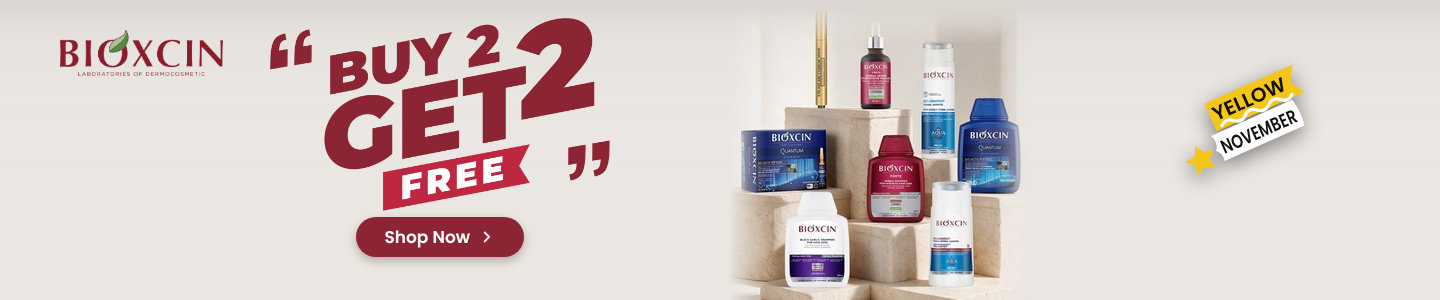
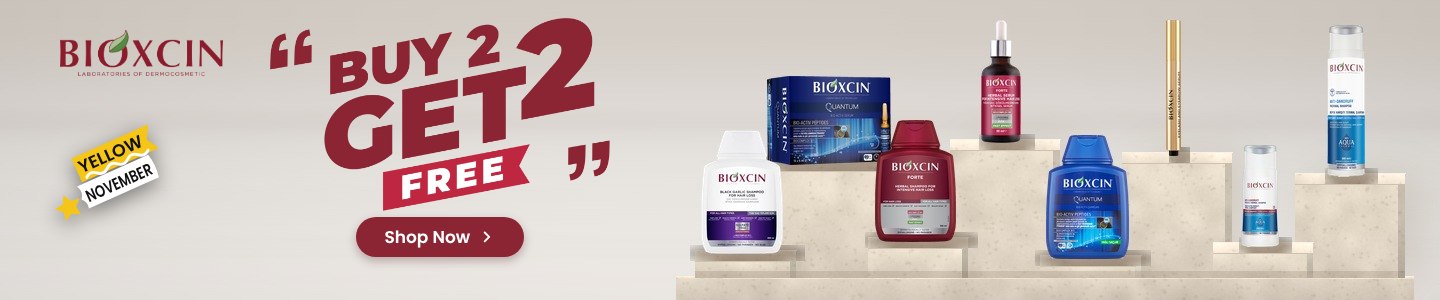
Offer 2 wide: custom travertine block stands per size, products arranged in two rows instead of the fixed photo podium
Claude-Session: https://claude.ai/code/session_01MejyVmSq2aYVYmituLqweB

diff --git a/banners/banners.css b/banners/banners.css
@@ -798,3 +798,10 @@ img.logo { object-fit: contain; }
 .podium.mobile-slim .st-cta { margin-top: 120px; margin-inline-start: 18px; }
 [dir="rtl"].podium.mobile-slim .st-cta { margin-inline-start: 0; margin-inline-end: 18px; }
 [dir="rtl"].podium.desktop-hero .bf-sticker { top: 120px; }
+/* offer 2 wide: products fill the right side, so logo + sticker live on the copy side */
+[dir="rtl"].podium.desktop-hero .pd-logo { right: auto; left: 60px; }
+.podium.desktop-hero .bf-sticker, [dir="rtl"].podium.desktop-hero .bf-sticker { width: 140px; left: 50px; top: 120px; }
+.podium.mobile-hero .bf-sticker { width: 92px; left: 300px; top: 2px; }
+.podium.mobile-slim .bf-sticker { width: 88px; left: 330px; top: 2px; }
+.podium.mobile-slim .pd-logo { right: auto; left: 700px; display: none; }
+.podium.mobile-hero .bf-sticker { left: 318px; }

diff --git a/banners/make-offer2-bg.py b/banners/make-offer2-bg.py
@@ -1,36 +1,118 @@
-"""Wide backgrounds for offer 2: the podium group from products/offer2-podium.jpg
-placed on a wall extended from the photo's own edge colours."""
+"""Offer-2 wide backgrounds: wall from the podium photo's tones, stone blocks built from
+the photo's travertine texture, and the 8 product cutouts arranged per banner size."""
 from pathlib import Path
-from PIL import Image
+from PIL import Image, ImageFilter, ImageEnhance, ImageOps
 import numpy as np
 here = Path(__file__).parent
 ph = Image.open(here / "products/offer2-podium.jpg").convert("RGB")
 A = np.asarray(ph).astype(np.float32)
-crop = (40, 382, 760, 1075)            # pen top .. podium base
-cw, ch = crop[2] - crop[0], crop[3] - crop[1]
 
-def build(name, W, H, cx, pad=6):
-    k = (H - pad) / ch
-    pw, phh = round(cw * k), round(ch * k)
-    prod = ph.crop(crop).resize((pw, phh), Image.LANCZOS)
-    px, py = round(cx - pw / 2), H - phh
+# travertine: warm base + soft cloudy variation + small elongated pores (like the photo's blocks)
+import cv2
+rng = np.random.default_rng(7)
+def travertine(w, h, shade=1.0, scale=1.0):
+    base = np.array([229, 217, 200], np.float32)
+    n1 = cv2.GaussianBlur(rng.normal(0, 1, (h, w)).astype(np.float32), (0, 0), 9 * scale + 1)
+    n1 = n1 / (n1.std() + 1e-6) * 4.0
+    n2 = cv2.GaussianBlur(rng.normal(0, 1, (h, w)).astype(np.float32), (0, 0), 0.8) * 3.0
+    pores = np.zeros((h, w), np.float32)
+    for _ in range(int(w * h / (80 / scale))):
+        x, y = rng.integers(0, w), rng.integers(0, h)
+        rx = max(1, int(rng.choice([1, 1, 2, 2, 3]) * scale + 0.5)); ry = max(1, int(rx * 0.55))
+        cv2.ellipse(pores, (int(x), int(y)), (rx, ry), 0, 0, 360, float(rng.uniform(7, 17)), -1)
+    pores = cv2.GaussianBlur(pores, (0, 0), 0.6)
+    img = base[None, None, :] + (n1 + n2)[..., None] - pores[..., None] * np.array([1.0, 1.08, 1.25])
+    img *= shade * np.linspace(1.02, 0.95, h)[:, None, None]
+    return Image.fromarray(img.clip(0, 255).astype(np.uint8))
+
+def stone(w, h, shade=1.0, scale=1.0):
+    return travertine(max(1, int(w)), max(1, int(h)), shade, scale)
+
+def wall(W, H):
     rows = []
     for y in range(H):
-        sy = int(min(max(crop[1] + (y - py) / k, 0), 780))   # wall only, never the podium
+        sy = int(120 + (y / max(1, H - 1)) * 640)
         rows.append((A[sy, :25].mean(0) + A[sy, -25:].mean(0)) / 2)
     bg = np.repeat(np.array(rows)[:, None, :], W, 1)
-    canvas = Image.fromarray(bg.clip(0, 255).astype(np.uint8))
-    m = Image.new("L", prod.size, 255); mp = m.load(); fe = max(14, pw // 8)
-    for x in range(pw):
-        for y in range(phh):
-            v = 255
-            if x < fe: v = min(v, 255 * x // fe)
-            if pw - 1 - x < fe: v = min(v, 255 * (pw - 1 - x) // fe)
-            if y < fe: v = min(v, 255 * y // fe)
-            mp[x, y] = v
-    canvas.paste(prod, (px, py), m)
-    canvas.save(here / f"products/offer2-bg-{name}.jpg", quality=93)
+    xx = np.linspace(-1, 1, W)[None, :, None]
+    bg = bg * (1 - 0.05 * xx ** 2)             # soft light in the middle
+    return Image.fromarray(bg.clip(0, 255).astype(np.uint8))
 
-build("1440x300", 1440, 300, cx=880)
-build("706x320", 706, 320, cx=530)
-build("800x200", 800, 200, cx=560)
+P = {k: Image.open(here / f"products/{v}.png").convert("RGBA") for k, v in {
+    "garlic": "bioxcin-black-garlic-shampoo", "box": "bioxcin-quantum-serum", "forte": "bioxcin-forte-shampoo",
+    "serum": "bioxcin-forte-serum", "thermal": "bioxcin-anti-dandruff-shampoo", "pen": "bioxcin-eyelash-serum",
+    "qshamp": "bioxcin-quantum-shampoo", "ds": "bioxcin-anti-dandruff-ds-shampoo"}.items()}
+REAL_H = {"garlic": 1.0, "box": 0.62, "forte": 0.98, "serum": 0.86, "thermal": 1.06, "pen": 0.95, "qshamp": 1.0, "ds": 0.82}
+# slot order left→right: front (F) shampoos on low blocks, back (B) small items on tall blocks
+SLOTS = [("garlic", "F"), ("box", "B"), ("forte", "F"), ("serum", "B"),
+         ("qshamp", "F"), ("pen", "B"), ("ds", "F"), ("thermal", "B")]
+BACK_H = [0.84, 1.0, 0.9, 0.74]
+FRONT_H = [0.14, 0.24, 0.1, 0.2]
+
+def build(name, W, H, x0, x1, unit, maxblock, slab, tex, front_h=0.16):
+    from PIL import ImageDraw
+    c = wall(W, H)
+    ground = H - slab
+    n = len(SLOTS)
+    step = (x1 - x0) / n
+    items = []
+    bi = 0; fi = 0
+    for i, (k, row) in enumerate(SLOTS):
+        im = P[k]
+        h = unit * REAL_H[k] * (0.9 if row == "B" else 0.78)
+        w = im.width * h / im.height
+        cx = x0 + step * (i + 0.5)
+        if row == "B":
+            bh = int(maxblock * BACK_H[bi]); bi += 1
+            bw = max(w * 1.3, step * 1.2)
+        else:
+            bh = int(maxblock * FRONT_H[fi]); fi += 1
+            bw = max(w * 1.15, step * 1.1)
+        items.append(dict(k=k, row=row, cx=cx, w=w, h=h, bh=bh, bw=bw))
+    top_h = max(5, int(unit * 0.07))
+    # soft shadows of the blocks on the wall (light from the upper left)
+    shadow = Image.new("L", (W, H), 0); sd = ImageDraw.Draw(shadow)
+    for it in items:
+        if it["row"] == "B":
+            sd.rectangle((it["cx"] - it["bw"] / 2 + unit * 0.12, ground - it["bh"] - top_h,
+                          it["cx"] + it["bw"] / 2 + unit * 0.12, ground), fill=55)
+    shadow = shadow.filter(ImageFilter.GaussianBlur(unit * 0.12))
+    c = Image.composite(Image.new("RGB", (W, H), (150, 128, 104)), c, shadow)
+    # base slab
+    bx0 = int(x0 - unit * 0.15)
+    c.paste(stone(int(x1 - x0 + unit * 0.3), slab, 0.96, tex), (bx0, ground))
+    c.paste(stone(int(x1 - x0 + unit * 0.3), 3, 1.1, tex), (bx0, ground - 2))
+
+    def draw_block(it):
+        x = int(it["cx"] - it["bw"] / 2); bw = int(it["bw"]); bh = it["bh"]
+        if bh <= 0: return
+        side = max(3, int(bw * 0.07))
+        c.paste(stone(bw, bh, 1.0, tex), (x, ground - bh))
+        c.paste(stone(side, bh + top_h, 0.86, tex), (x + bw, ground - bh - top_h))     # shaded right side
+        c.paste(stone(bw + side, top_h, 1.1, tex), (x, ground - bh - top_h))           # lit top
+        d = ImageDraw.Draw(c)
+        d.line((x, ground - bh - top_h, x + bw + side, ground - bh - top_h), fill=(247, 241, 232), width=1)
+        d.line((x, ground - bh, x + bw, ground - bh), fill=(208, 194, 175), width=1)
+        sh = Image.new("L", (bw + side, 7), 0); ImageDraw.Draw(sh).rectangle((0, 0, bw + side, 7), fill=45)
+        c.paste((120, 100, 80), (x, ground - 7), sh.filter(ImageFilter.GaussianBlur(2)))
+
+    def draw_product(it):
+        im = P[it["k"]].resize((int(it["w"]), int(it["h"])), Image.LANCZOS)
+        px, py = int(it["cx"] - it["w"] / 2), int(ground - it["bh"] - top_h * 0.5 - it["h"])
+        e = Image.new("RGBA", (int(it["w"] * 1.4), max(6, int(unit * 0.1))), (0, 0, 0, 0))
+        ImageDraw.Draw(e).ellipse((0, 0, e.width, e.height), fill=(70, 50, 30, 120))
+        e = e.filter(ImageFilter.GaussianBlur(max(2, unit * 0.025)))
+        c.paste(e, (int(px - it["w"] * 0.2 + unit * 0.04), int(py + it["h"] - e.height * 0.6)), e)
+        c.paste(im, (px, py), im)
+
+    back = [it for it in items if it["row"] == "B"]
+    front = [it for it in items if it["row"] == "F"]
+    for it in sorted(back, key=lambda t: -t["bh"]): draw_block(it)
+    for it in back: draw_product(it)
+    for it in front: draw_block(it)
+    for it in front: draw_product(it)
+    c.save(here / f"products/offer2-bg-{name}.jpg", quality=93)
+
+build("1440x300", 1440, 300, 700, 1390, unit=160, maxblock=128, slab=22, tex=0.7)
+build("706x320", 706, 320, 362, 702, unit=150, maxblock=140, slab=20, tex=0.6)
+build("800x200", 800, 200, 430, 790, unit=104, maxblock=86, slab=14, tex=0.5)
